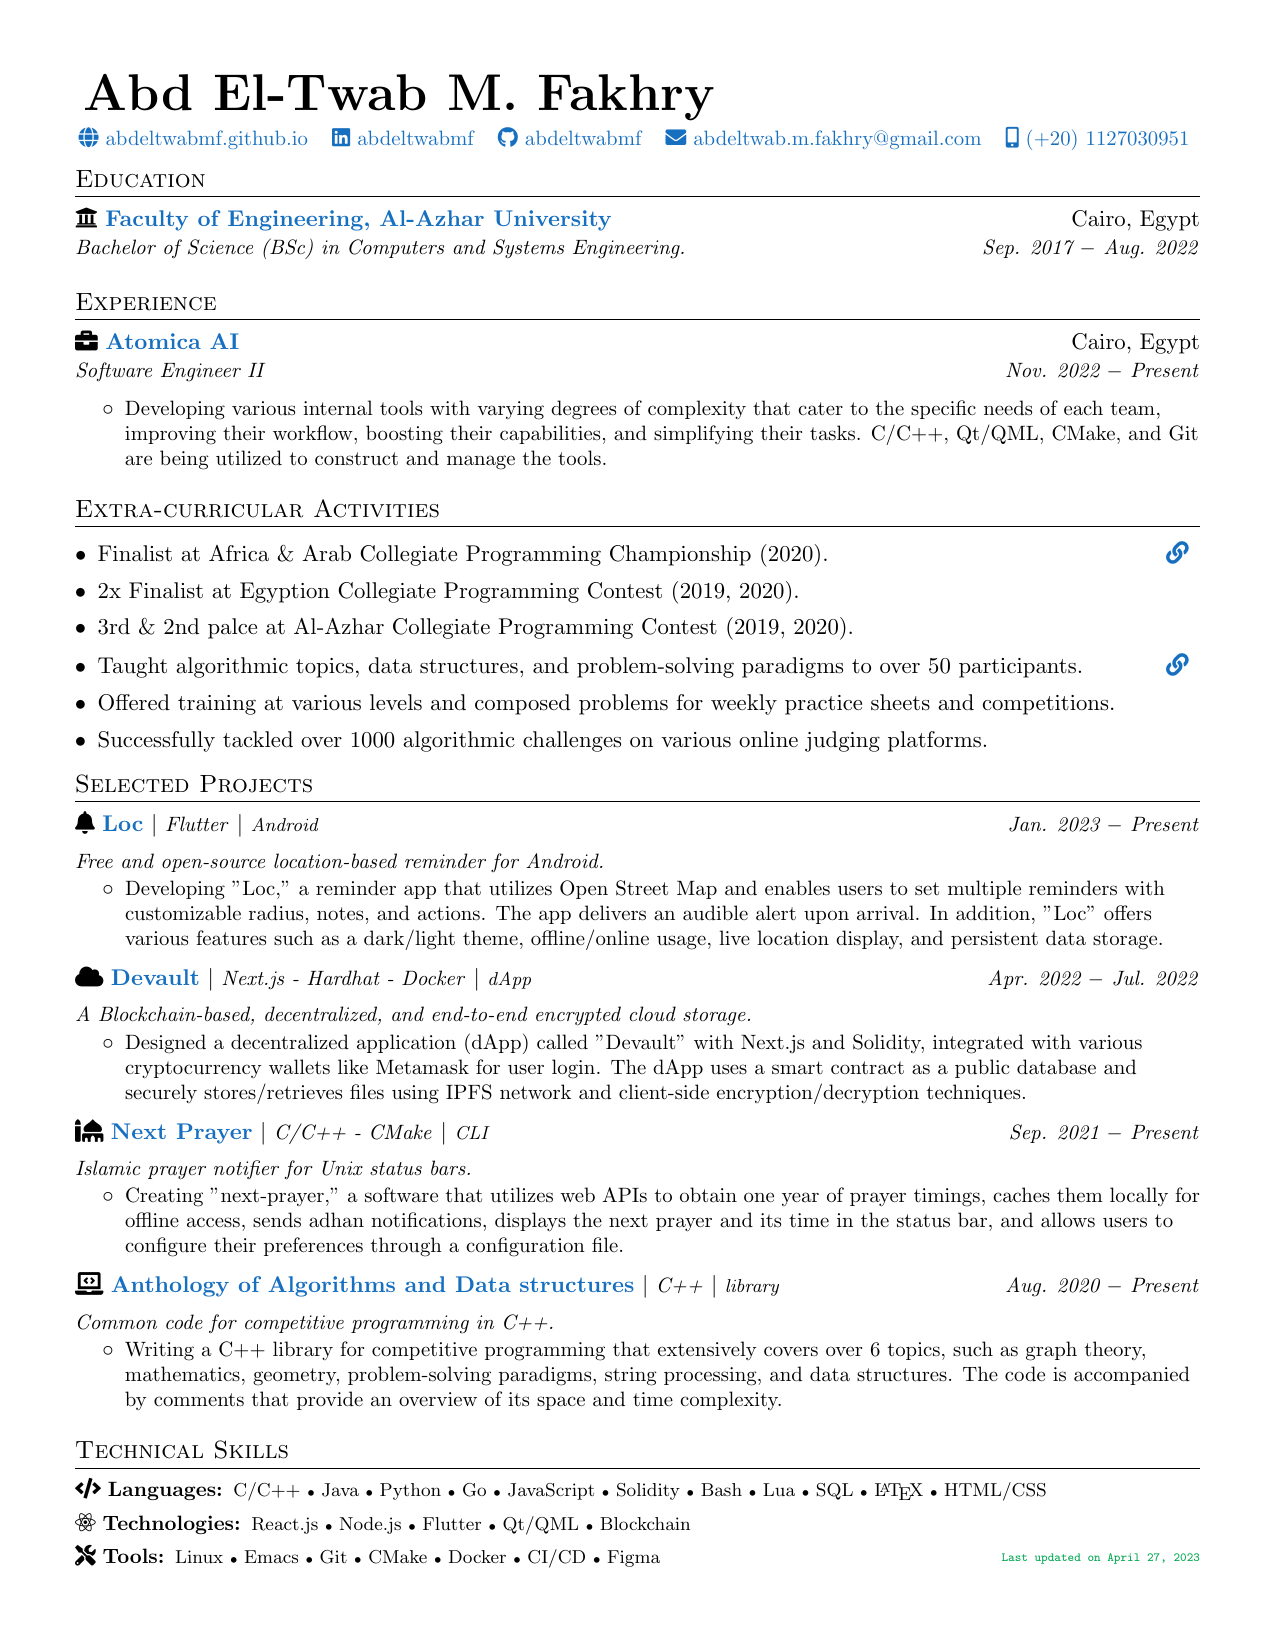
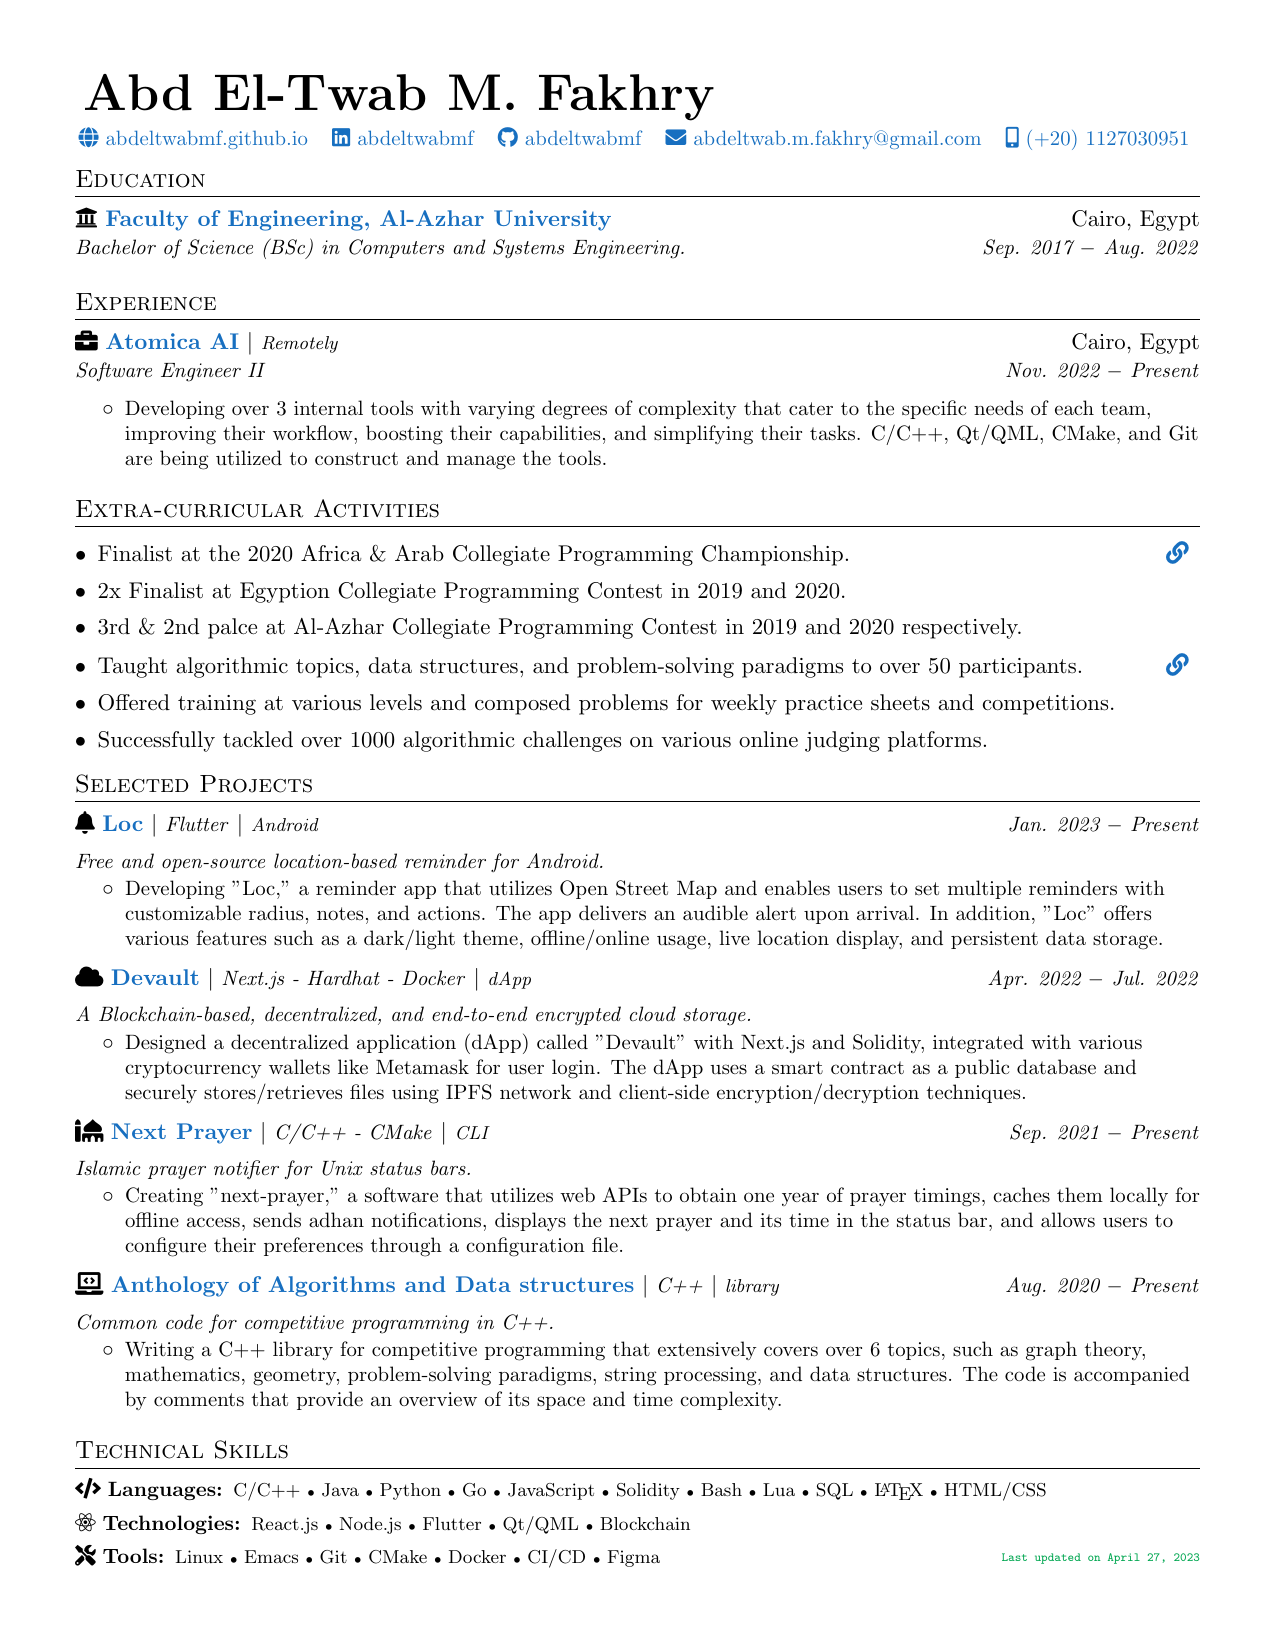
Update extra curricular activity

diff --git a/abdeltwabmf_resume.tex b/abdeltwabmf_resume.tex
@@ -60,11 +60,12 @@
   \vspace{-4pt}
 }
 
-\newcommand{\experience}[6] {
+\newcommand{\experience}[7] {
 	\vspace{-1pt}\item[]
   \begin{tabular*}{1\textwidth}[t]{l@{\extracolsep{\fill}}r}
-		#1 \href{#2}{\textbf{\color{RoyalBlue}#3}} & #4 \\
-    \textit{\small #5} & \textit{\small #6} \\
+		#1 \href{#2}{\textbf{\color{RoyalBlue}#3}}
+		\textbar{} \textit{\footnotesize#4} & #5 \\
+		\textit{\small #6} & \textit{\small #7} \\
   \end{tabular*}
   \vspace{-8pt}
 }
@@ -158,12 +159,12 @@
 \begin{itemize}[leftmargin=0pt]
   \experience
 	{\faIcon{briefcase}}
-  {https://atomica.ai/}{Atomica AI}{Cairo, Egypt}
+	{https://atomica.ai/}{Atomica AI}{Remotely}{Cairo, Egypt}
   {Software Engineer II}{Nov. 2022 $-$ Present}
 
   \begin{itemize}
     \subexperience
-    {Developing various internal tools with varying degrees of complexity that cater to the specific needs of each team, improving their workflow, boosting their capabilities, and simplifying their tasks. C/C++, Qt/QML, CMake, and Git are being utilized to construct and manage the tools.}
+		{Developing over 3 internal tools with varying degrees of complexity that cater to the specific needs of each team, improving their workflow, boosting their capabilities, and simplifying their tasks. C/C++, Qt/QML, CMake, and Git are being utilized to construct and manage the tools.}
   \end{itemize}\vspace{-4pt}
 \end{itemize}
 
@@ -171,15 +172,15 @@
 \section{Extra-curricular Activities}
 \begin{itemize}[leftmargin=*]
   \extracurricularactivity
-  {Finalist at Africa \& Arab Collegiate Programming Championship (2020).}
+  {Finalist at the 2020 Africa \& Arab Collegiate Programming Championship.}
   {https://icpc.global/ICPCID/S6R4YNB7PW7D}{\faIcon{link}}
 
   \extracurricularactivity
-  {2x Finalist at Egyption Collegiate Programming Contest (2019, 2020).}
+  {2x Finalist at Egyption Collegiate Programming Contest in 2019 and 2020.}
   {}{}
 
   \extracurricularactivity
-  {3rd \& 2nd palce at Al-Azhar Collegiate Programming Contest (2019, 2020).}
+  {3rd \& 2nd palce at Al-Azhar Collegiate Programming Contest in 2019 and 2020 respectively.}
   {}{}
 
   \extracurricularactivity
